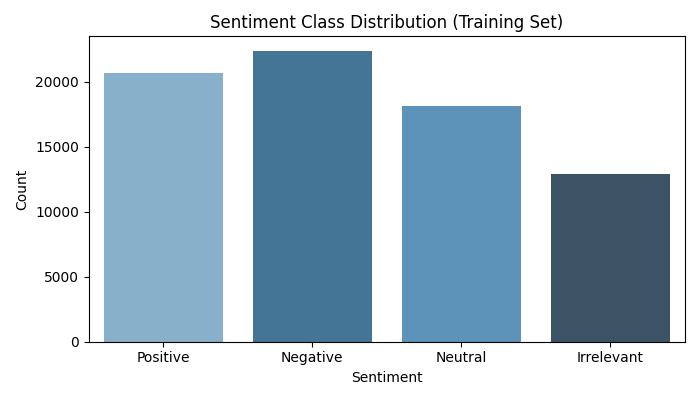
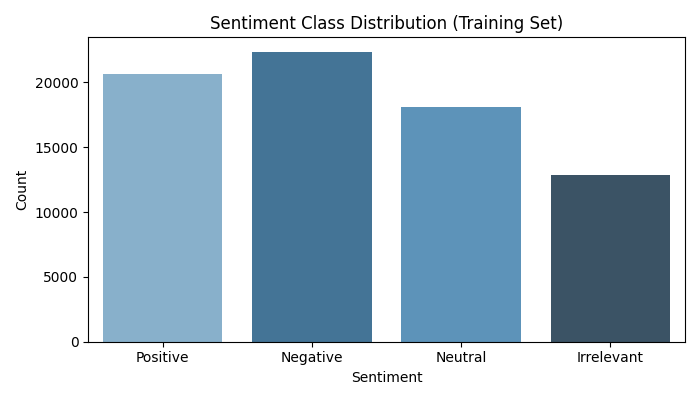
Update model pipeline and fix sklearn compatibility

Changed region(s): [[0.12, 0.03, 0.99, 0.15], [0.03, 0.18, 0.15, 0.84], [0.18, 0.87, 0.27, 0.93]]

diff --git a/src/model.py b/src/model.py
@@ -1,0 +1,134 @@
+import os
+import pandas as pd
+import matplotlib.pyplot as plt
+import seaborn as sns
+import joblib
+
+from sklearn.linear_model import LogisticRegression
+from sklearn.naive_bayes import MultinomialNB
+from sklearn.svm import LinearSVC
+from sklearn.metrics import classification_report, confusion_matrix
+
+from features import extract_features, save_vectorizer
+
+repo_root = os.path.abspath(os.path.join(os.path.dirname(__file__), '..'))
+data_dir = os.path.join(repo_root, 'data')
+
+# ── 1. LOAD ANKITA'S CLEANED DATA ─────────────
+print("Loading cleaned data...")
+train_df = pd.read_csv(os.path.join(data_dir, "train_clean.csv"))
+val_df   = pd.read_csv(os.path.join(data_dir, "val_clean.csv"))
+
+# Fill any remaining NaN values just in case
+train_df["clean_tweet"] = train_df["clean_tweet"].fillna("")
+val_df["clean_tweet"]   = val_df["clean_tweet"].fillna("")
+
+X_train = train_df["clean_tweet"]
+y_train = train_df["sentiment"]
+X_val   = val_df["clean_tweet"]
+y_val   = val_df["sentiment"]
+
+print(f"Training samples:   {len(train_df)}")
+print(f"Validation samples: {len(val_df)}")
+print(f"Classes: {y_train.unique().tolist()}")
+
+# ── 2. FEATURE ENGINEERING (TF-IDF) ───────────
+print("\nExtracting TF-IDF features...")
+X_train_vec, X_val_vec, vectorizer = extract_features(X_train, X_val)
+
+# ── 3. DEFINE MODELS ──────────────────────────
+models = {
+    "Logistic Regression": LogisticRegression(
+        solver='lbfgs',
+        max_iter=1000,
+        class_weight='balanced'   # handles class imbalance
+    ),
+    "Naive Bayes": MultinomialNB(
+        alpha=0.1                 # smoothing parameter
+    ),
+    "SVM": LinearSVC(
+        max_iter=2000,
+        class_weight='balanced'   # handles class imbalance
+    )
+}
+
+# ── 4. TRAIN AND EVALUATE ALL MODELS ──────────
+results   = {}
+trained   = {}
+CLASS_NAMES = ["Positive", "Negative", "Neutral", "Irrelevant"]
+
+print("\n" + "="*60)
+print("MODEL COMPARISON")
+print("="*60)
+
+for name, model in models.items():
+    print(f"\nTraining {name}...")
+    model.fit(X_train_vec, y_train)
+
+    y_pred = model.predict(X_val_vec)
+    report = classification_report(
+        y_val, y_pred,
+        target_names=CLASS_NAMES,
+        output_dict=True
+    )
+
+    results[name] = report
+    trained[name] = model
+
+    print(f"\n{name} Results:")
+    print(classification_report(y_val, y_pred, target_names=CLASS_NAMES))
+
+# ── 5. COMPARE MODELS ─────────────────────────
+print("\n" + "="*60)
+print("SUMMARY — Weighted F1 Scores")
+print("="*60)
+
+f1_scores = {}
+for name, report in results.items():
+    f1 = report["weighted avg"]["f1-score"]
+    acc = report["accuracy"]
+    f1_scores[name] = f1
+    print(f"{name:<25} Accuracy: {acc:.4f}   F1: {f1:.4f}")
+
+# ── 6. PICK BEST MODEL ────────────────────────
+best_name  = max(f1_scores, key=f1_scores.get)
+best_model = trained[best_name]
+print(f"\nBest model: {best_name} (F1: {f1_scores[best_name]:.4f})")
+
+# ── 7. CONFUSION MATRIX FOR BEST MODEL ────────
+y_pred_best = best_model.predict(X_val_vec)
+cm = confusion_matrix(y_val, y_pred_best, labels=CLASS_NAMES)
+
+plt.figure(figsize=(8, 6))
+sns.heatmap(cm, annot=True, fmt='d', cmap='Blues',
+            xticklabels=CLASS_NAMES, yticklabels=CLASS_NAMES)
+plt.title(f'Confusion Matrix — {best_name}')
+plt.ylabel('Actual')
+plt.xlabel('Predicted')
+plt.tight_layout()
+plt.savefig("data/confusion_matrix.png")
+plt.show()
+print("Saved: data/confusion_matrix.png")
+
+# ── 8. F1 SCORE COMPARISON CHART ──────────────
+plt.figure(figsize=(7, 4))
+plt.bar(f1_scores.keys(), f1_scores.values(), color=['#4361ee', '#7209b7', '#f72585'])
+plt.title('Model Comparison — Weighted F1 Score')
+plt.ylabel('F1 Score')
+plt.ylim(0, 1)
+for i, (name, score) in enumerate(f1_scores.items()):
+    plt.text(i, score + 0.01, f"{score:.4f}", ha='center', fontsize=11)
+plt.tight_layout()
+plt.savefig("data/model_comparison.png")
+plt.show()
+print("Saved: data/model_comparison.png")
+
+# ── 9. SAVE BEST MODEL + VECTORIZER ───────────
+os.makedirs("data", exist_ok=True)
+joblib.dump(best_model, "data/best_model.pkl")
+joblib.dump(vectorizer,  "data/vectorizer.pkl")
+print(f"\nSaved best model ({best_name}) to data/best_model.pkl")
+print("Saved vectorizer to data/vectorizer.pkl")
+
+print("\nModeling complete!")
+print(f"Load 'data/best_model.pkl' and 'data/vectorizer.pkl' for evaluation and demo.")

diff --git a/src/features.py b/src/features.py
@@ -1,0 +1,12 @@
+from sklearn.feature_extraction.text import TfidfVectorizer
+import joblib
+
+def extract_features(train_series, val_series, max_features=5000):
+    """Converts text to TF-IDF vectors."""
+    vectorizer = TfidfVectorizer(max_features=max_features, stop_words='english')
+    X_train = vectorizer.fit_transform(train_series)
+    X_val = vectorizer.transform(val_series)
+    return X_train, X_val, vectorizer
+
+def save_vectorizer(vectorizer, path):
+    joblib.dump(vectorizer, path)

diff --git a/src/eda.py b/src/eda.py
@@ -6,8 +6,8 @@ import seaborn as sns
 from wordcloud import WordCloud
 
 #  1. LOAD DATA
-train_df = pd.read_csv("data/raw/twitter_training.csv", header=None)
-val_df   = pd.read_csv("data/raw/twitter_validation.csv", header=None)
+train_df = pd.read_csv(r"D:\2_Study\2_Study Abroad\Master\KLU\Courses\ML_DL\Twitter Sentiment analysis\twitter_training.csv", header=None)
+val_df   = pd.read_csv(r"D:\2_Study\2_Study Abroad\Master\KLU\Courses\ML_DL\Twitter Sentiment analysis\twitter_validation.csv", header=None)
 
 # Assign column names
 train_df.columns = ["tweet_id", "topic", "sentiment", "tweet"]

diff --git a/src/preprocess.py b/src/preprocess.py
@@ -12,8 +12,8 @@ nltk.download("wordnet")
 nltk.download("omw-1.4")
 
 # 1. LOAD DATA 
-train_df = pd.read_csv("data/raw/twitter_training.csv", header=None)
-val_df   = pd.read_csv("data/raw/twitter_validation.csv", header=None)
+train_df = pd.read_csv(r"D:\2_Study\2_Study Abroad\Master\KLU\Courses\ML_DL\Twitter Sentiment analysis\twitter_training.csv", header=None)
+val_df   = pd.read_csv(r"D:\2_Study\2_Study Abroad\Master\KLU\Courses\ML_DL\Twitter Sentiment analysis\twitter_validation.csv", header=None)
 
 train_df.columns = ["tweet_id", "topic", "sentiment", "tweet"]
 val_df.columns   = ["tweet_id", "topic", "sentiment", "tweet"]